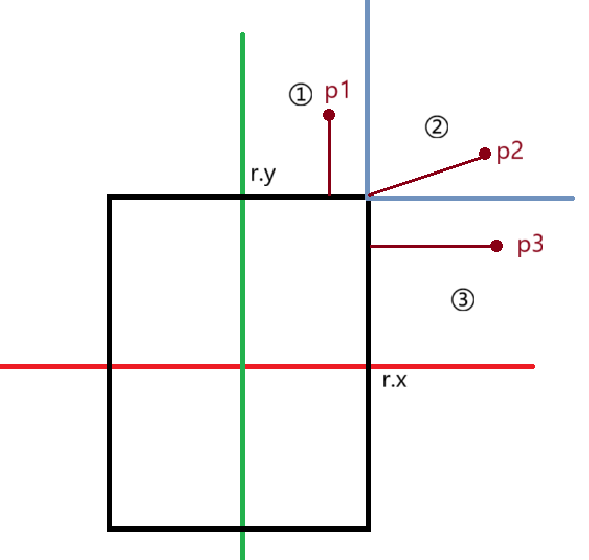
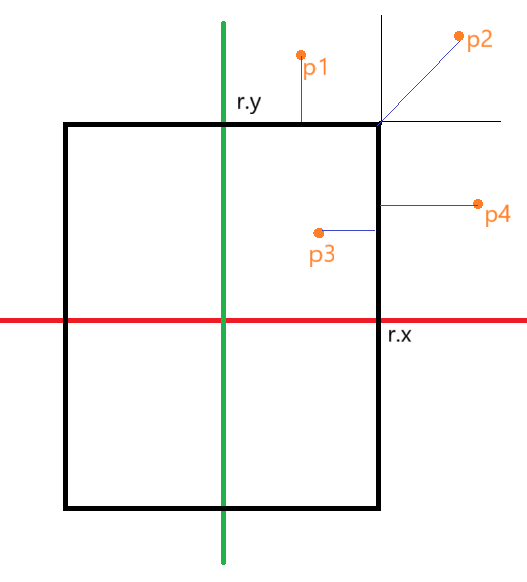
nothing

diff --git a/CG/Raymarching/docs/sd functions.md b/CG/Raymarching/docs/sd functions.md
@@ -35,13 +35,15 @@ struct box{
 
 float sdBox(vec3 p, box b)
 {
-    vec3 ap = abs(p);
-    return length(min(p, b.radius) - b.radius);
+    vec3 q = abs(p) - b;
+    return length(max(q, 0)) + min(max(q.x, q.y, q.z), 0);
 }
 ```
 
 **推导**
 
-![推导](../images/deduction_box.png){width=40%}
+<img src="../images/deduction_box.png" width="200" height="200" alt="图片加载失败时的提示文字">
+
+
 
 
